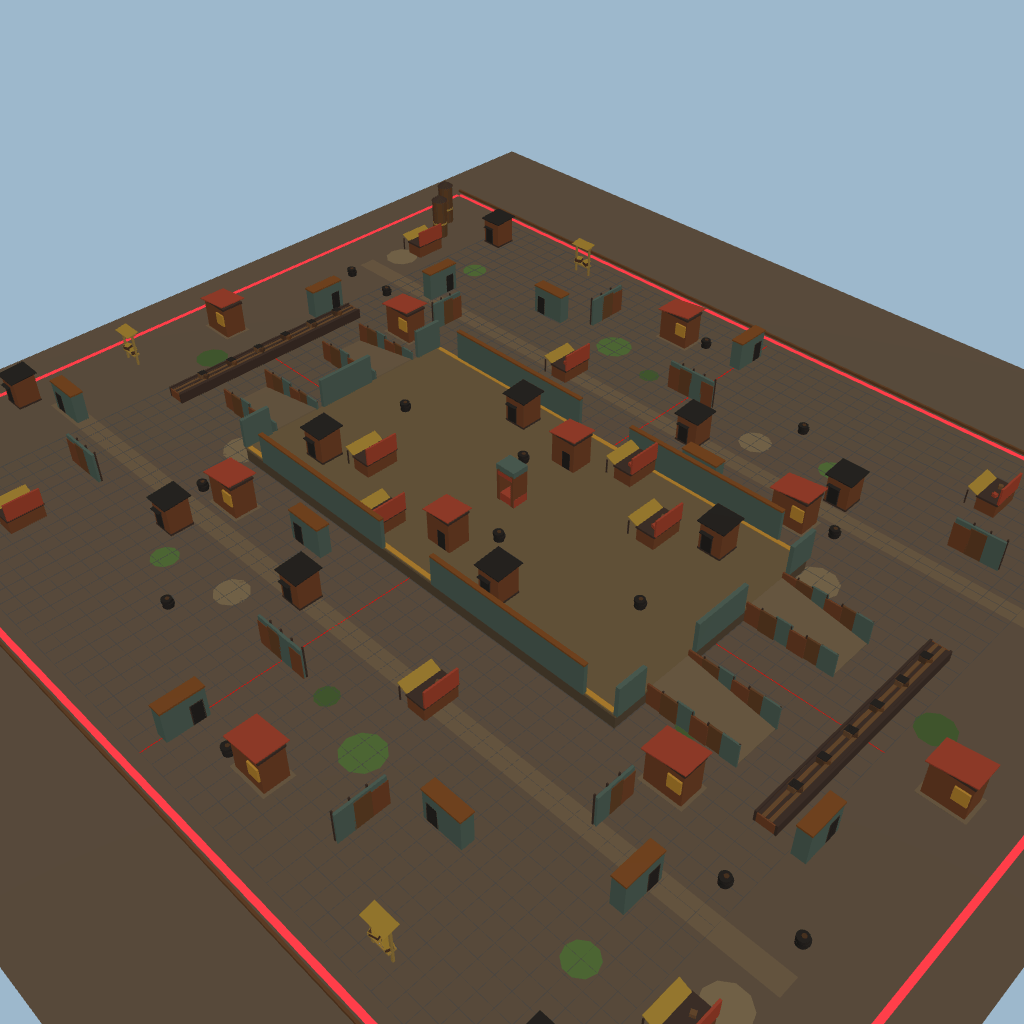
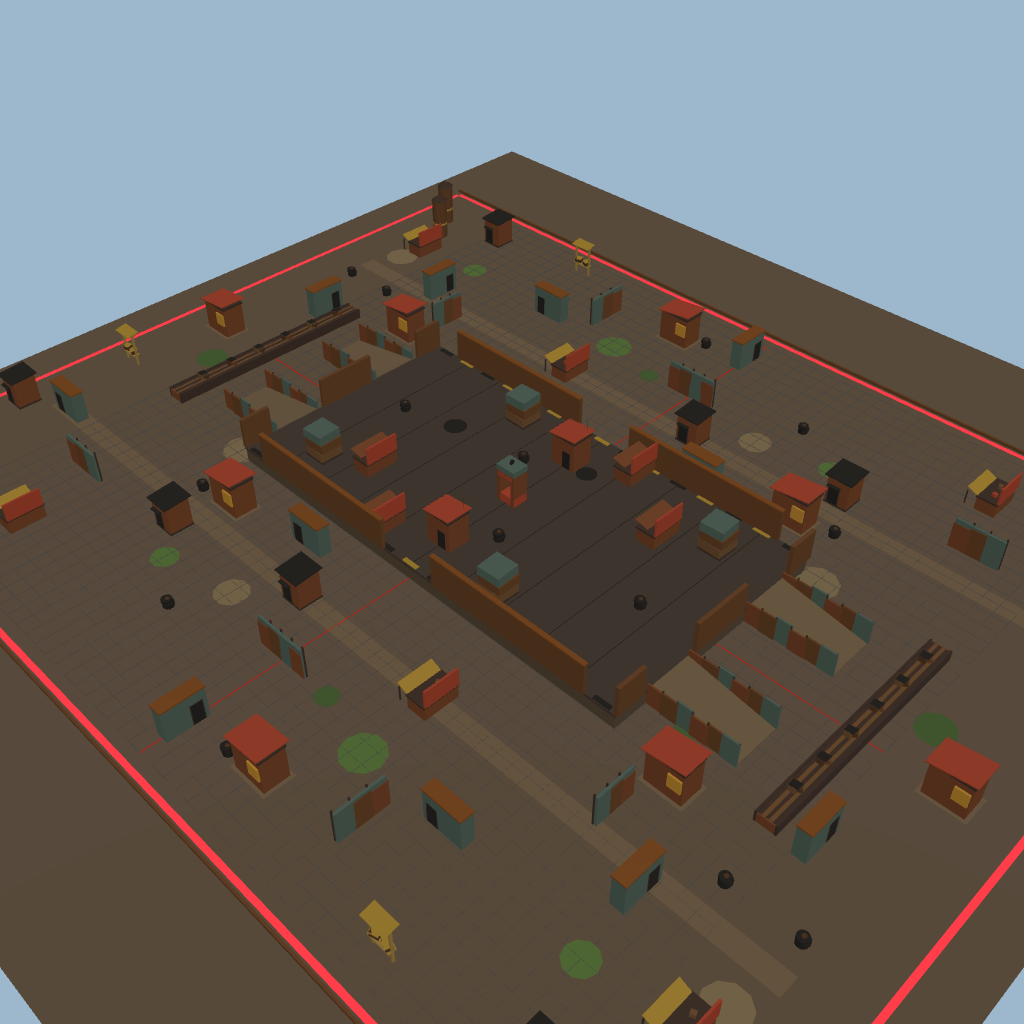
yard: work-deck identity pass — the terrace is the crusher platform
User: revamp the platform settings from scratch, distinctive from ground
level, scrapyard theme. The deck is now the yard's steel WORK PLATFORM
against the dirt village below (all decor-only; collision frozen):

- Deck surface: oxidised steel plate with seam lines, oil stains, and
  black/yellow dashed hazard edging (ground keeps sun-dried earth).
- Deck stacks render as compacted scrap BALES (three offset layers,
  mixed tints) instead of sheds — collision boxes identical, body box
  invisible on the deck variant.
- Deck workbenches are sorting stations: corrugated lean-to roof and a
  gas-bottle pair, no market canopy or goods.
- The centre press reads as the crane gantry: pulley wheel on the beam,
  hook block at the edge (clear of the walk line and above the 8-tall
  capsule), painted signboard kept.
- Operator cabins (deck cabs) get antennas; deck edge fences repaint to
  rust so the platform silhouette separates from the teal ground
  containers.

Collision export still checksums byte-identical (3637168.500000 / 319).
Deck-level and aerial captures verified by eye; thumbnail refreshed.

Changed region(s): [[0.2188, 0.3125, 0.8125, 0.7188]]

diff --git a/client/src/main.js b/client/src/main.js
@@ -11018,6 +11018,7 @@ function buildFactory2Arena() {
   const cautionMat = new THREE.MeshStandardMaterial({ color: 0xb08a2e, roughness: 0.8 });           // sun-bleached hazard paint
   const deckSteel = new THREE.MeshStandardMaterial({ color: 0x63503a, roughness: 0.8, metalness: 0.15 });
   const deckTile = new THREE.MeshStandardMaterial({ color: 0x76603f, roughness: 0.85 });
+  const deckPlate = new THREE.MeshStandardMaterial({ color: 0x584a3f, roughness: 0.7, metalness: 0.35 });  // oxidised steel work deck
 
   const HALF_X = 130;
   const HALF_Z = 105;
@@ -11066,11 +11067,27 @@ function buildFactory2Arena() {
   const DECK_Y = 4;
   const deckBody = addBlockingBox({ x: 0, y: (DECK_Y - 0.3) / 2, z: 0, sx: 119.6, sy: DECK_Y - 0.3, sz: 63.6, material: deckSteel.clone(), topBuffer: 0 });
   registerWallFade(deckBody, { minX: -60, maxX: 60, minY: 0, maxY: DECK_Y, minZ: -32, maxZ: 32 });
-  addPlatform({ minX: -60, maxX: 60, minZ: -32, maxZ: 32, top: DECK_Y, material: deckTile, thickness: 0.6 });
+  addPlatform({ minX: -60, maxX: 60, minZ: -32, maxZ: 32, top: DECK_Y, material: deckPlate, thickness: 0.6 });
+  // WORK-DECK dressing (2026-08-13): the terrace is the scrapyard's steel
+  // work platform — plate seams, oil stains, and dashed hazard edging make
+  // it read as a different WORLD from the dirt village below.
+  for (let sx2 = -48; sx2 <= 48; sx2 += 12) {
+    const seam = new THREE.Mesh(new THREE.BoxGeometry(0.14, 0.03, 62.4), beltSurface.clone());
+    seam.position.set(sx2, DECK_Y + 0.03, 0);
+    scene.add(seam); arenaDecor.push(seam);
+  }
+  for (const [ox2, oz2, orad] of [[-30, -10, 3.0], [18, 22, 2.2], [6, -19, 2.6]]) {
+    const stain = new THREE.Mesh(new THREE.CircleGeometry(orad, 12), beltSurface.clone());
+    stain.rotation.x = -Math.PI / 2;
+    stain.position.set(ox2, DECK_Y + 0.045, oz2);
+    scene.add(stain); arenaDecor.push(stain);
+  }
   for (const ez of [-31.2, 31.2]) {
-    const es = new THREE.Mesh(new THREE.BoxGeometry(118, 0.15, 1.2), stripe);
-    es.position.set(0, DECK_Y + 0.08, ez);
-    scene.add(es); arenaDecor.push(es);
+    for (let dx2 = -56; dx2 <= 56; dx2 += 8) {
+      const dash = new THREE.Mesh(new THREE.BoxGeometry(4.4, 0.15, 1.2), (((dx2 / 8) % 2 === 0) ? cautionMat : beltSurface).clone());
+      dash.position.set(dx2, DECK_Y + 0.08, ez);
+      scene.add(dash); arenaDecor.push(dash);
+    }
   }
   // Long-edge safety fences (sheet metal, tops at 12 — unjumpable) with a
   // 16-wide jump-in gap at the middle of each side: two extra contest points
@@ -11081,7 +11098,9 @@ function buildFactory2Arena() {
   for (const side of [-1, 1]) {
     for (const [fx0, fx1] of [[-52, -8], [8, 52]]) {
       const fbox = { minX: fx0, maxX: fx1, minY: DECK_Y, maxY: DECK_Y + 8.5, minZ: side * 32 - 0.6, maxZ: side * 32 + 0.6 };
-      const fence = addBlockingBox({ x: (fx0 + fx1) / 2, y: DECK_Y + 4, z: side * 32, sx: fx1 - fx0, sy: 8, sz: 1.0, material: machineAlt });
+      // Rust, not the ground level's painted teal — the deck edge silhouette
+      // is part of what separates the work platform from the village.
+      const fence = addBlockingBox({ x: (fx0 + fx1) / 2, y: DECK_Y + 4, z: side * 32, sx: fx1 - fx0, sy: 8, sz: 1.0, material: wallTrim });
       fadeTall(fence, fbox);
       const rail = new THREE.Mesh(new THREE.BoxGeometry(fx1 - fx0, 0.4, 1.2), beltFrame);
       rail.position.set((fx0 + fx1) / 2, DECK_Y + 8.2, side * 32);
@@ -11092,7 +11111,7 @@ function buildFactory2Arena() {
   // End-edge fences (x = ±60), leaving the ramp mouths (z -22..-10, 10..22) open.
   for (const [fz0, fz1] of [[-32, -24], [-8, 8], [24, 32]]) {
     for (const ex of [-60, 60]) {
-      const fence = addBlockingBox({ x: ex, y: DECK_Y + 4, z: (fz0 + fz1) / 2, sx: 1.0, sy: 8, sz: fz1 - fz0, material: machineAlt });
+      const fence = addBlockingBox({ x: ex, y: DECK_Y + 4, z: (fz0 + fz1) / 2, sx: 1.0, sy: 8, sz: fz1 - fz0, material: wallTrim });
       fadeTall(fence, { minX: ex - 0.5, maxX: ex + 0.5, minY: DECK_Y, maxY: DECK_Y + 8, minZ: fz0, maxZ: fz1 });
     }
   }
@@ -11156,6 +11175,11 @@ function buildFactory2Arena() {
     door.position.set(1.1, DECK_Y + 2.45, z + 3.05);
     scene.add(door); arenaDecor.push(door);
     fadeTall(door, box);
+    // Operator-cabin antenna — work-deck flavour (2026-08-13).
+    const mast = new THREE.Mesh(new THREE.CylinderGeometry(0.07, 0.07, 3.2, 6), wallTrim.clone());
+    mast.position.set(2.6, DECK_Y + 10.6, z - 2.4);
+    scene.add(mast); arenaDecor.push(mast);
+    fadeTall(mast, { minX: 2.3, maxX: 2.9, minY: DECK_Y + 8.6, maxY: DECK_Y + 12.2, minZ: z - 2.7, maxZ: z - 2.1 });
   };
   deckCab(-20); deckCab(20);
   const pressU1 = addBlockingBox({ x: -2.2, y: DECK_Y + 4.5, z: 0, sx: 0.9, sy: 9, sz: 4.5, material: machine });
@@ -11165,12 +11189,23 @@ function buildFactory2Arena() {
   fadeTall(pressU1, { minX: -2.7, maxX: -1.7, minY: DECK_Y, maxY: DECK_Y + 10, minZ: -2.3, maxZ: 2.3 });
   fadeTall(pressU2, { minX: 1.7, maxX: 2.7, minY: DECK_Y, maxY: DECK_Y + 10, minZ: -2.3, maxZ: 2.3 });
   fadeTall(pressBeam, { minX: -2.8, maxX: 2.8, minY: DECK_Y + 8.6, maxY: DECK_Y + 10.1, minZ: -2.3, maxZ: 2.3 });
-  // The press now reads as the terrace GATE: a painted signboard hangs
-  // under the lintel, fading with the beam.
+  // The press now reads as the deck's CRANE GANTRY (work-deck pass
+  // 2026-08-13): a painted signboard under the lintel, a pulley wheel
+  // riding the beam top, and a hook block at the beam's edge — off the
+  // walk line and above the 8-tall capsule, so nothing clips units.
   const gateSign = new THREE.Mesh(new THREE.PlaneGeometry(4.6, 1.1), machineTop.clone());
   gateSign.position.set(0, DECK_Y + 7.9, 2.28);
   scene.add(gateSign); arenaDecor.push(gateSign);
   fadeTall(gateSign, { minX: -2.8, maxX: 2.8, minY: DECK_Y + 7.3, maxY: DECK_Y + 10.1, minZ: -2.3, maxZ: 2.3 });
+  const wheel = new THREE.Mesh(new THREE.CylinderGeometry(0.65, 0.65, 0.32, 12), beltSurface.clone());
+  wheel.rotation.z = Math.PI / 2;
+  wheel.position.set(0, DECK_Y + 10.75, 0);
+  scene.add(wheel); arenaDecor.push(wheel);
+  fadeTall(wheel, { minX: -0.8, maxX: 0.8, minY: DECK_Y + 10.0, maxY: DECK_Y + 11.5, minZ: -0.8, maxZ: 0.8 });
+  const hook = new THREE.Mesh(new THREE.BoxGeometry(0.4, 0.9, 0.4), wallTrim.clone());
+  hook.position.set(0, DECK_Y + 8.6, 1.9);
+  scene.add(hook); arenaDecor.push(hook);
+  fadeTall(hook, { minX: -0.4, maxX: 0.4, minY: DECK_Y + 8.1, maxY: DECK_Y + 9.1, minZ: 1.6, maxZ: 2.2 });
 
   // ===== Shack rows (were conveyor belts; walkable tar-paper roofs at 2.6,
   // rooftop junk riding — identical boxes and surface) — one per yard,
@@ -11286,33 +11321,47 @@ function buildFactory2Arena() {
     fadeTall(splash, h
       ? { minX: x - 4.5, maxX: x + 4.5, minY: b + 3.8, maxY: b + 8.4, minZ: z + 2.3, maxZ: z + 2.9 }
       : { minX: x + 2.3, maxX: x + 2.9, minY: b + 3.8, maxY: b + 8.4, minZ: z - 4.5, maxZ: z + 4.5 });
-    // Canvas stall canopy over the open front, standing on two timber legs
-    // (revamp 2026-08-13: the floating awning read as a broken part —
-    // grounded posts make it a market stall).
-    const aw = h
-      ? new THREE.Mesh(new THREE.BoxGeometry(9, 0.18, 3.4), cautionMat.clone())
-      : new THREE.Mesh(new THREE.BoxGeometry(3.4, 0.18, 9), cautionMat.clone());
-    if (h) {
-      aw.position.set(x, b + 4.35, z - 3.7);
-      aw.rotation.x = 0.42;
+    if (b === 0) {
+      // GROUND: market stall — canvas canopy on two timber legs, goods on
+      // the counter (revamp 2026-08-13).
+      const aw = h
+        ? new THREE.Mesh(new THREE.BoxGeometry(9, 0.18, 3.4), cautionMat.clone())
+        : new THREE.Mesh(new THREE.BoxGeometry(3.4, 0.18, 9), cautionMat.clone());
+      if (h) {
+        aw.position.set(x, b + 4.35, z - 3.7);
+        aw.rotation.x = 0.42;
+      } else {
+        aw.position.set(x - 3.7, b + 4.35, z);
+        aw.rotation.z = -0.42;
+      }
+      scene.add(aw); arenaDecor.push(aw);
+      const legs = h ? [[x - 4.2, z - 5.1], [x + 4.2, z - 5.1]] : [[x - 5.1, z - 4.2], [x - 5.1, z + 4.2]];
+      for (const [lx, lz2] of legs) {
+        const leg = new THREE.Mesh(new THREE.BoxGeometry(0.28, 3.8, 0.28), beam.clone());
+        leg.position.set(lx, b + 1.9, lz2);
+        scene.add(leg); arenaDecor.push(leg);
+      }
+      const spots = h ? [[x - 1.6, z, crate, 0.4], [x + 2.1, z + 0.5, machineTop, -0.25]] : [[x, z - 1.6, crate, 0.4], [x + 0.5, z + 2.1, machineTop, -0.25]];
+      for (const [gx2, gz2, tint, rot] of spots) {
+        const goods = new THREE.Mesh(new THREE.BoxGeometry(1.1, 0.9, 1.0), tint.clone());
+        goods.position.set(gx2, b + 4.35, gz2);
+        goods.rotation.y = rot;
+        scene.add(goods); arenaDecor.push(goods);
+      }
     } else {
-      aw.position.set(x - 3.7, b + 4.35, z);
-      aw.rotation.z = -0.42;
-    }
-    scene.add(aw); arenaDecor.push(aw);
-    const legs = h ? [[x - 4.2, z - 5.1], [x + 4.2, z - 5.1]] : [[x - 5.1, z - 4.2], [x - 5.1, z + 4.2]];
-    for (const [lx, lz2] of legs) {
-      const leg = new THREE.Mesh(new THREE.BoxGeometry(0.28, 3.8, 0.28), beam.clone());
-      leg.position.set(lx, b + 1.9, lz2);
-      scene.add(leg); arenaDecor.push(leg);
-    }
-    // Goods on the counter — small skewed boxes, not spheres.
-    const spots = h ? [[x - 1.6, z, crate, 0.4], [x + 2.1, z + 0.5, machineTop, -0.25]] : [[x, z - 1.6, crate, 0.4], [x + 0.5, z + 2.1, machineTop, -0.25]];
-    for (const [gx2, gz2, tint, rot] of spots) {
-      const goods = new THREE.Mesh(new THREE.BoxGeometry(1.1, 0.9, 1.0), tint.clone());
-      goods.position.set(gx2, b + 4.35, gz2);
-      goods.rotation.y = rot;
-      scene.add(goods); arenaDecor.push(goods);
+      // WORK DECK: sorting station — corrugated lean-to roof over the
+      // counter and a gas-bottle pair, no market dressing (work-deck pass
+      // 2026-08-13 — the deck must read different from the village below).
+      const lean = new THREE.Mesh(new THREE.BoxGeometry(h ? 9.6 : 3.8, 0.14, h ? 3.8 : 9.6), machine.clone());
+      if (h) { lean.position.set(x, b + 5.4, z - 1.1); lean.rotation.x = 0.24; }
+      else { lean.position.set(x - 1.1, b + 5.4, z); lean.rotation.z = -0.24; }
+      scene.add(lean); arenaDecor.push(lean);
+      const bottles = h ? [[3.7, 1.5, machineTop], [3.7, 0.5, wallTrim]] : [[1.5, 3.7, machineTop], [0.5, 3.7, wallTrim]];
+      for (const [ox2, oz2, tint] of bottles) {
+        const cyl = new THREE.Mesh(new THREE.CylinderGeometry(0.42, 0.42, 2.0, 10), tint.clone());
+        cyl.position.set(x + ox2, b + 1.0, z + oz2);
+        scene.add(cyl); arenaDecor.push(cyl);
+      }
     }
     // (No doorway: the kiosk body is 3.4 tall — a human-sized door on a
     // waist-high stall made the unit read as a giant. Stalls are open-front
@@ -11394,14 +11443,30 @@ function buildFactory2Arena() {
   // the same volume, all fading with the body box. =====
   const drawStack = (x, z, b = 0) => {
     const box = { minX: x - 3.2, maxX: x + 3.2, minY: b, maxY: b + 8, minZ: z - 3.2, maxZ: z + 3.2 };
-    addBlockingBox({ x, y: b + 0.25, z, sx: 6.2, sy: 0.5, sz: 6.2, material: beam });                 // timber plinth
-    fadeTall(addBlockingBox({ x, y: b + 4.25, z, sx: 6, sy: 7.5, sz: 6, material: machine }), box);   // ground-floor walls: rust sheet
+    // On the work deck (b > 0) the same box reads as a stack of compacted
+    // scrap BALES instead of a shed — the deck is where scrap gets crushed
+    // (work-deck pass 2026-08-13). Collision identical either way.
+    const bale = b > 0;
+    addBlockingBox({ x, y: b + 0.25, z, sx: 6.2, sy: 0.5, sz: 6.2, material: beam });                 // pallet / plinth
+    const bodyMesh = addBlockingBox({ x, y: b + 4.25, z, sx: 6, sy: 7.5, sz: 6, material: machine, invisible: bale });
+    if (!bale) fadeTall(bodyMesh, box);
     for (const sxo of [-1.35, 0, 1.35]) {
       addBlockingBox({ x: x + sxo, y: b + 4.2, z, sx: 0.18, sy: 7.2, sz: 6.06, material: machine, invisible: true });
     }
     addBlockingBox({ x: x - 2.85, y: b + 4.25, z, sx: 0.45, sy: 7.5, sz: 6.05, material: machine, invisible: true });
     addBlockingBox({ x: x + 2.85, y: b + 4.25, z, sx: 0.45, sy: 7.5, sz: 6.05, material: machine, invisible: true });
     addBlockingBox({ x, y: b + 3.4, z, sx: 6.08, sy: 0.6, sz: 6.08, material: machine, invisible: true });
+    if (bale) {
+      const baleTints = [crate, wallTrim, machineAlt];
+      for (let li = 0; li < 3; li += 1) {
+        const layer = new THREE.Mesh(new THREE.BoxGeometry(6.15, 2.35, 6.15), baleTints[li].clone());
+        layer.position.set(x + (li === 1 ? 0.14 : -0.08), b + 1.7 + li * 2.5, z + (li === 2 ? 0.12 : 0));
+        layer.rotation.y = (li - 1) * 0.05;
+        scene.add(layer); arenaDecor.push(layer);
+        fadeTall(layer, box);
+      }
+      return;   // bales get no roof or gate
+    }
     // (No upper-storey band, no window: a 6x6 footprint can never read as a
     // multi-storey HOUSE next to a 6.4-tall unit — it became a dollhouse.
     // Single-material tall SHED with one big gate and a heavy roof, like
